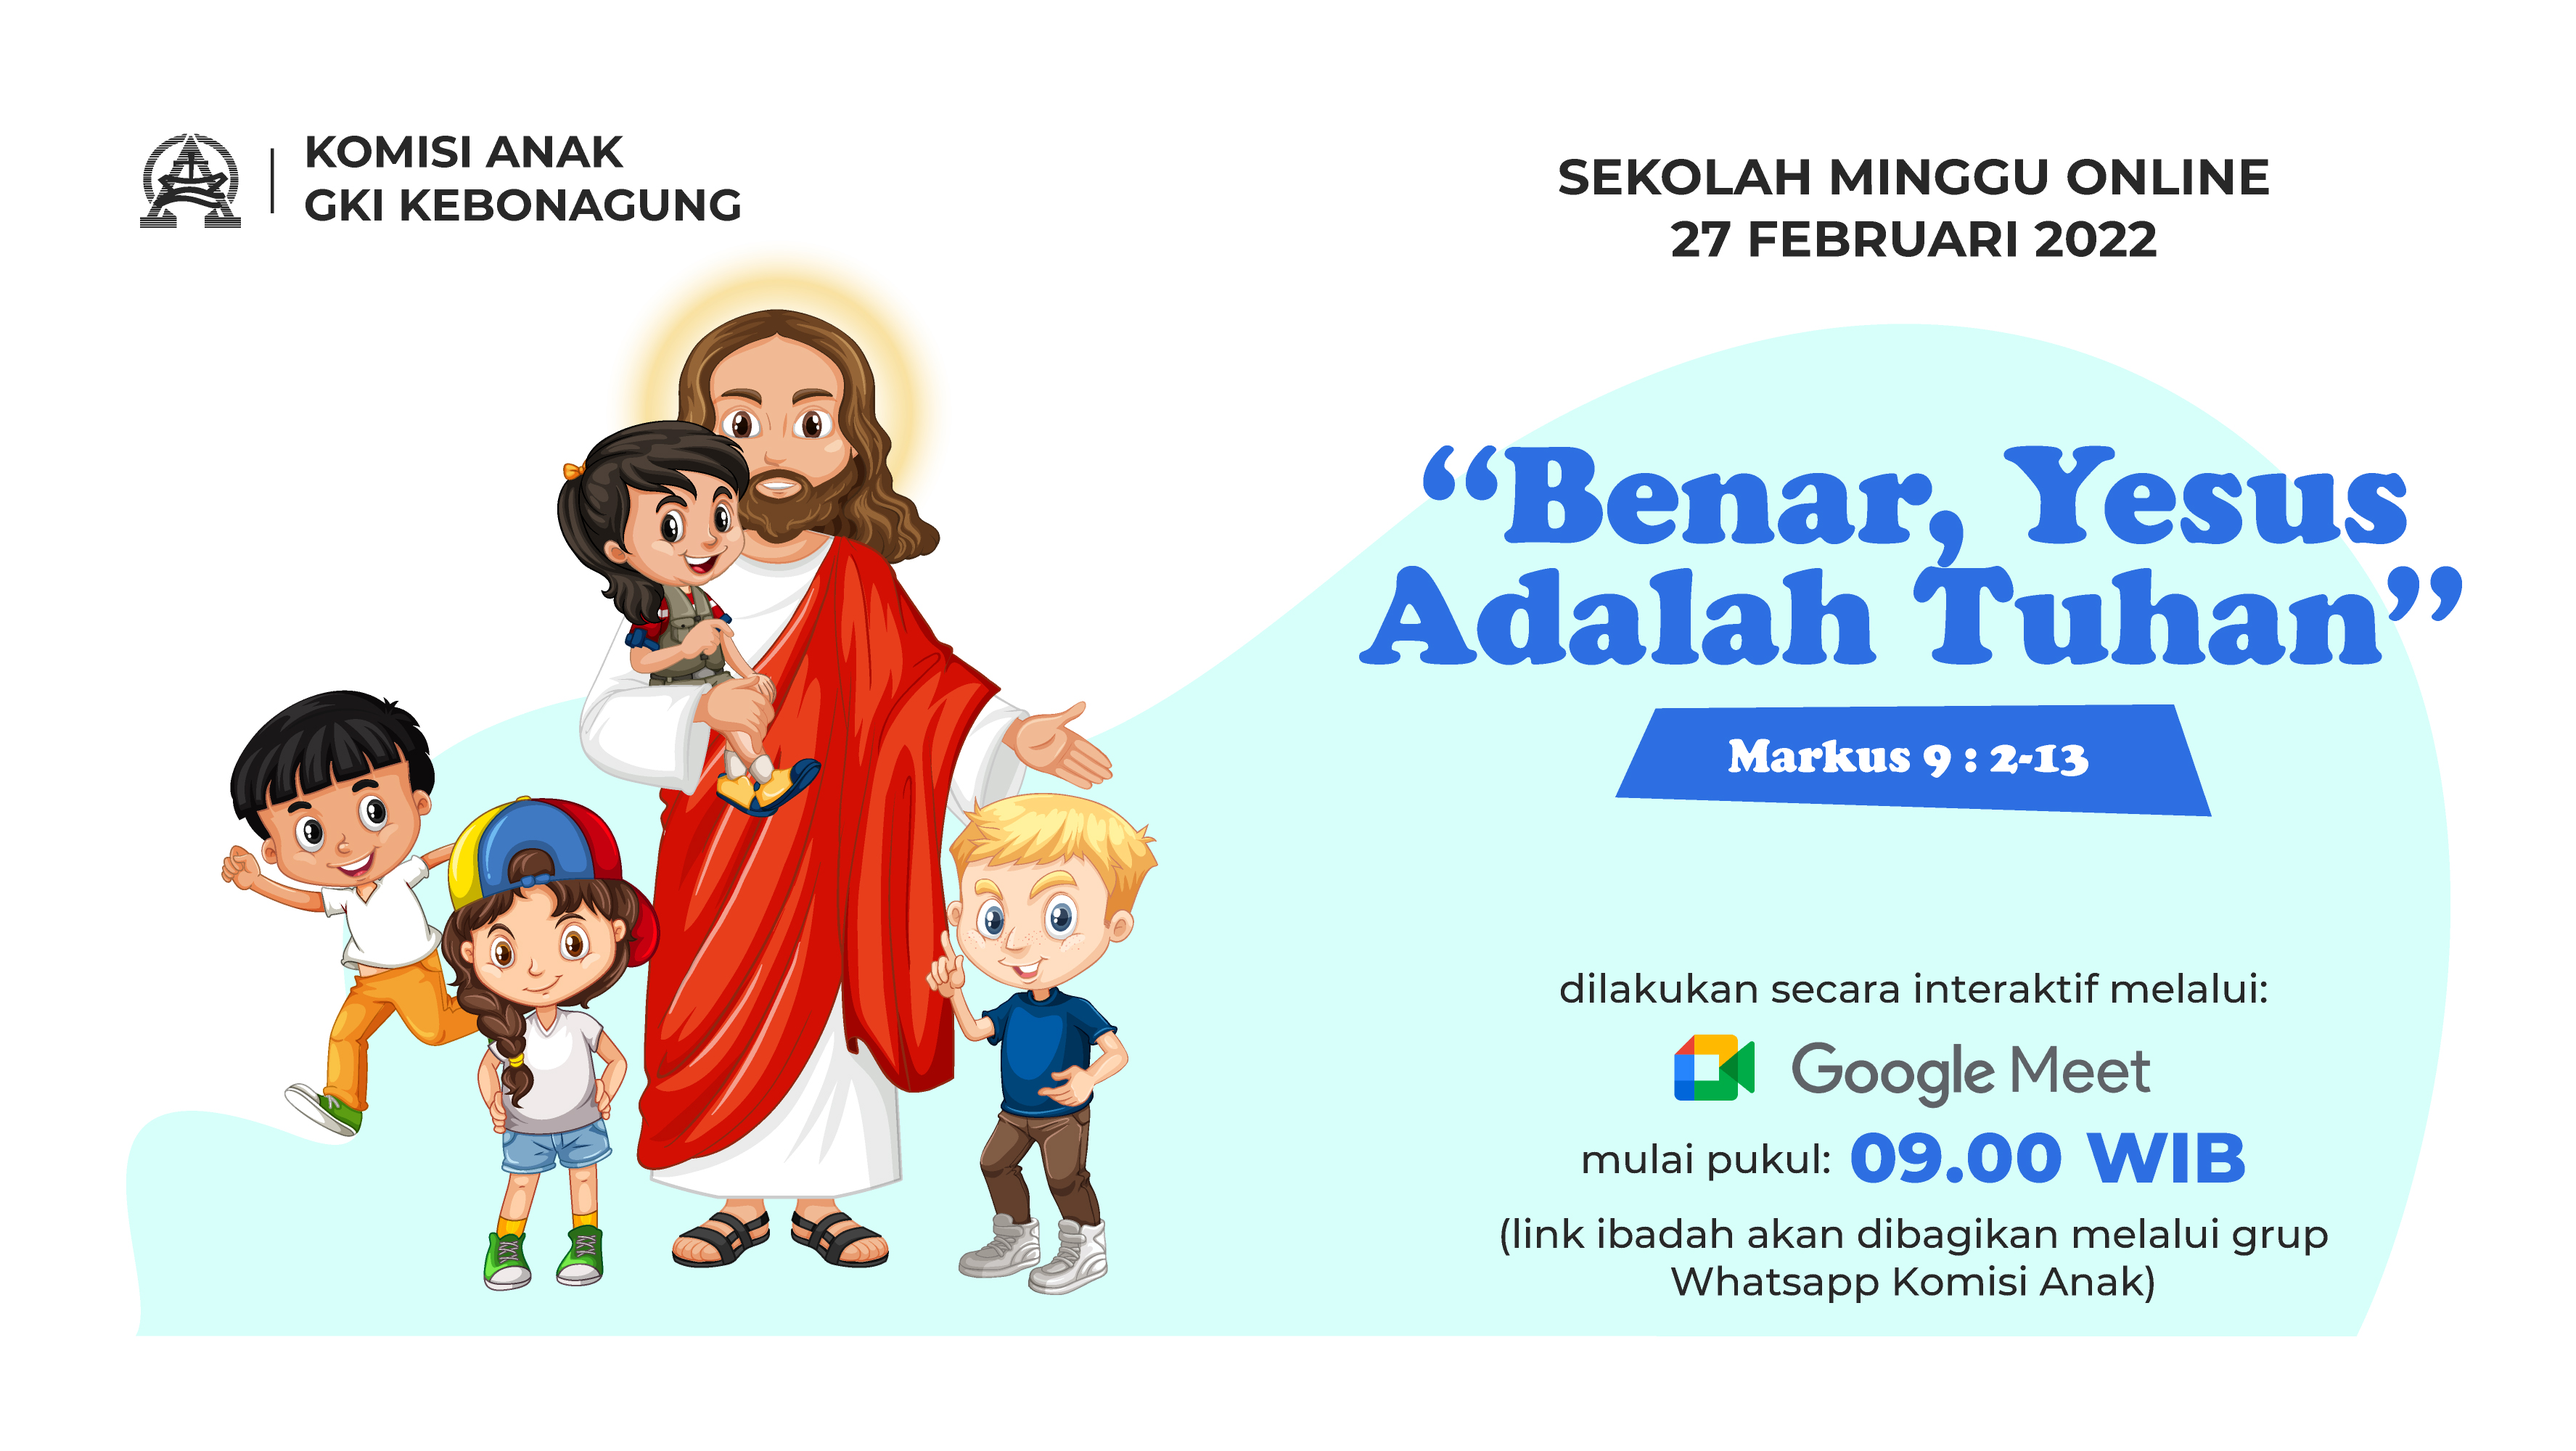
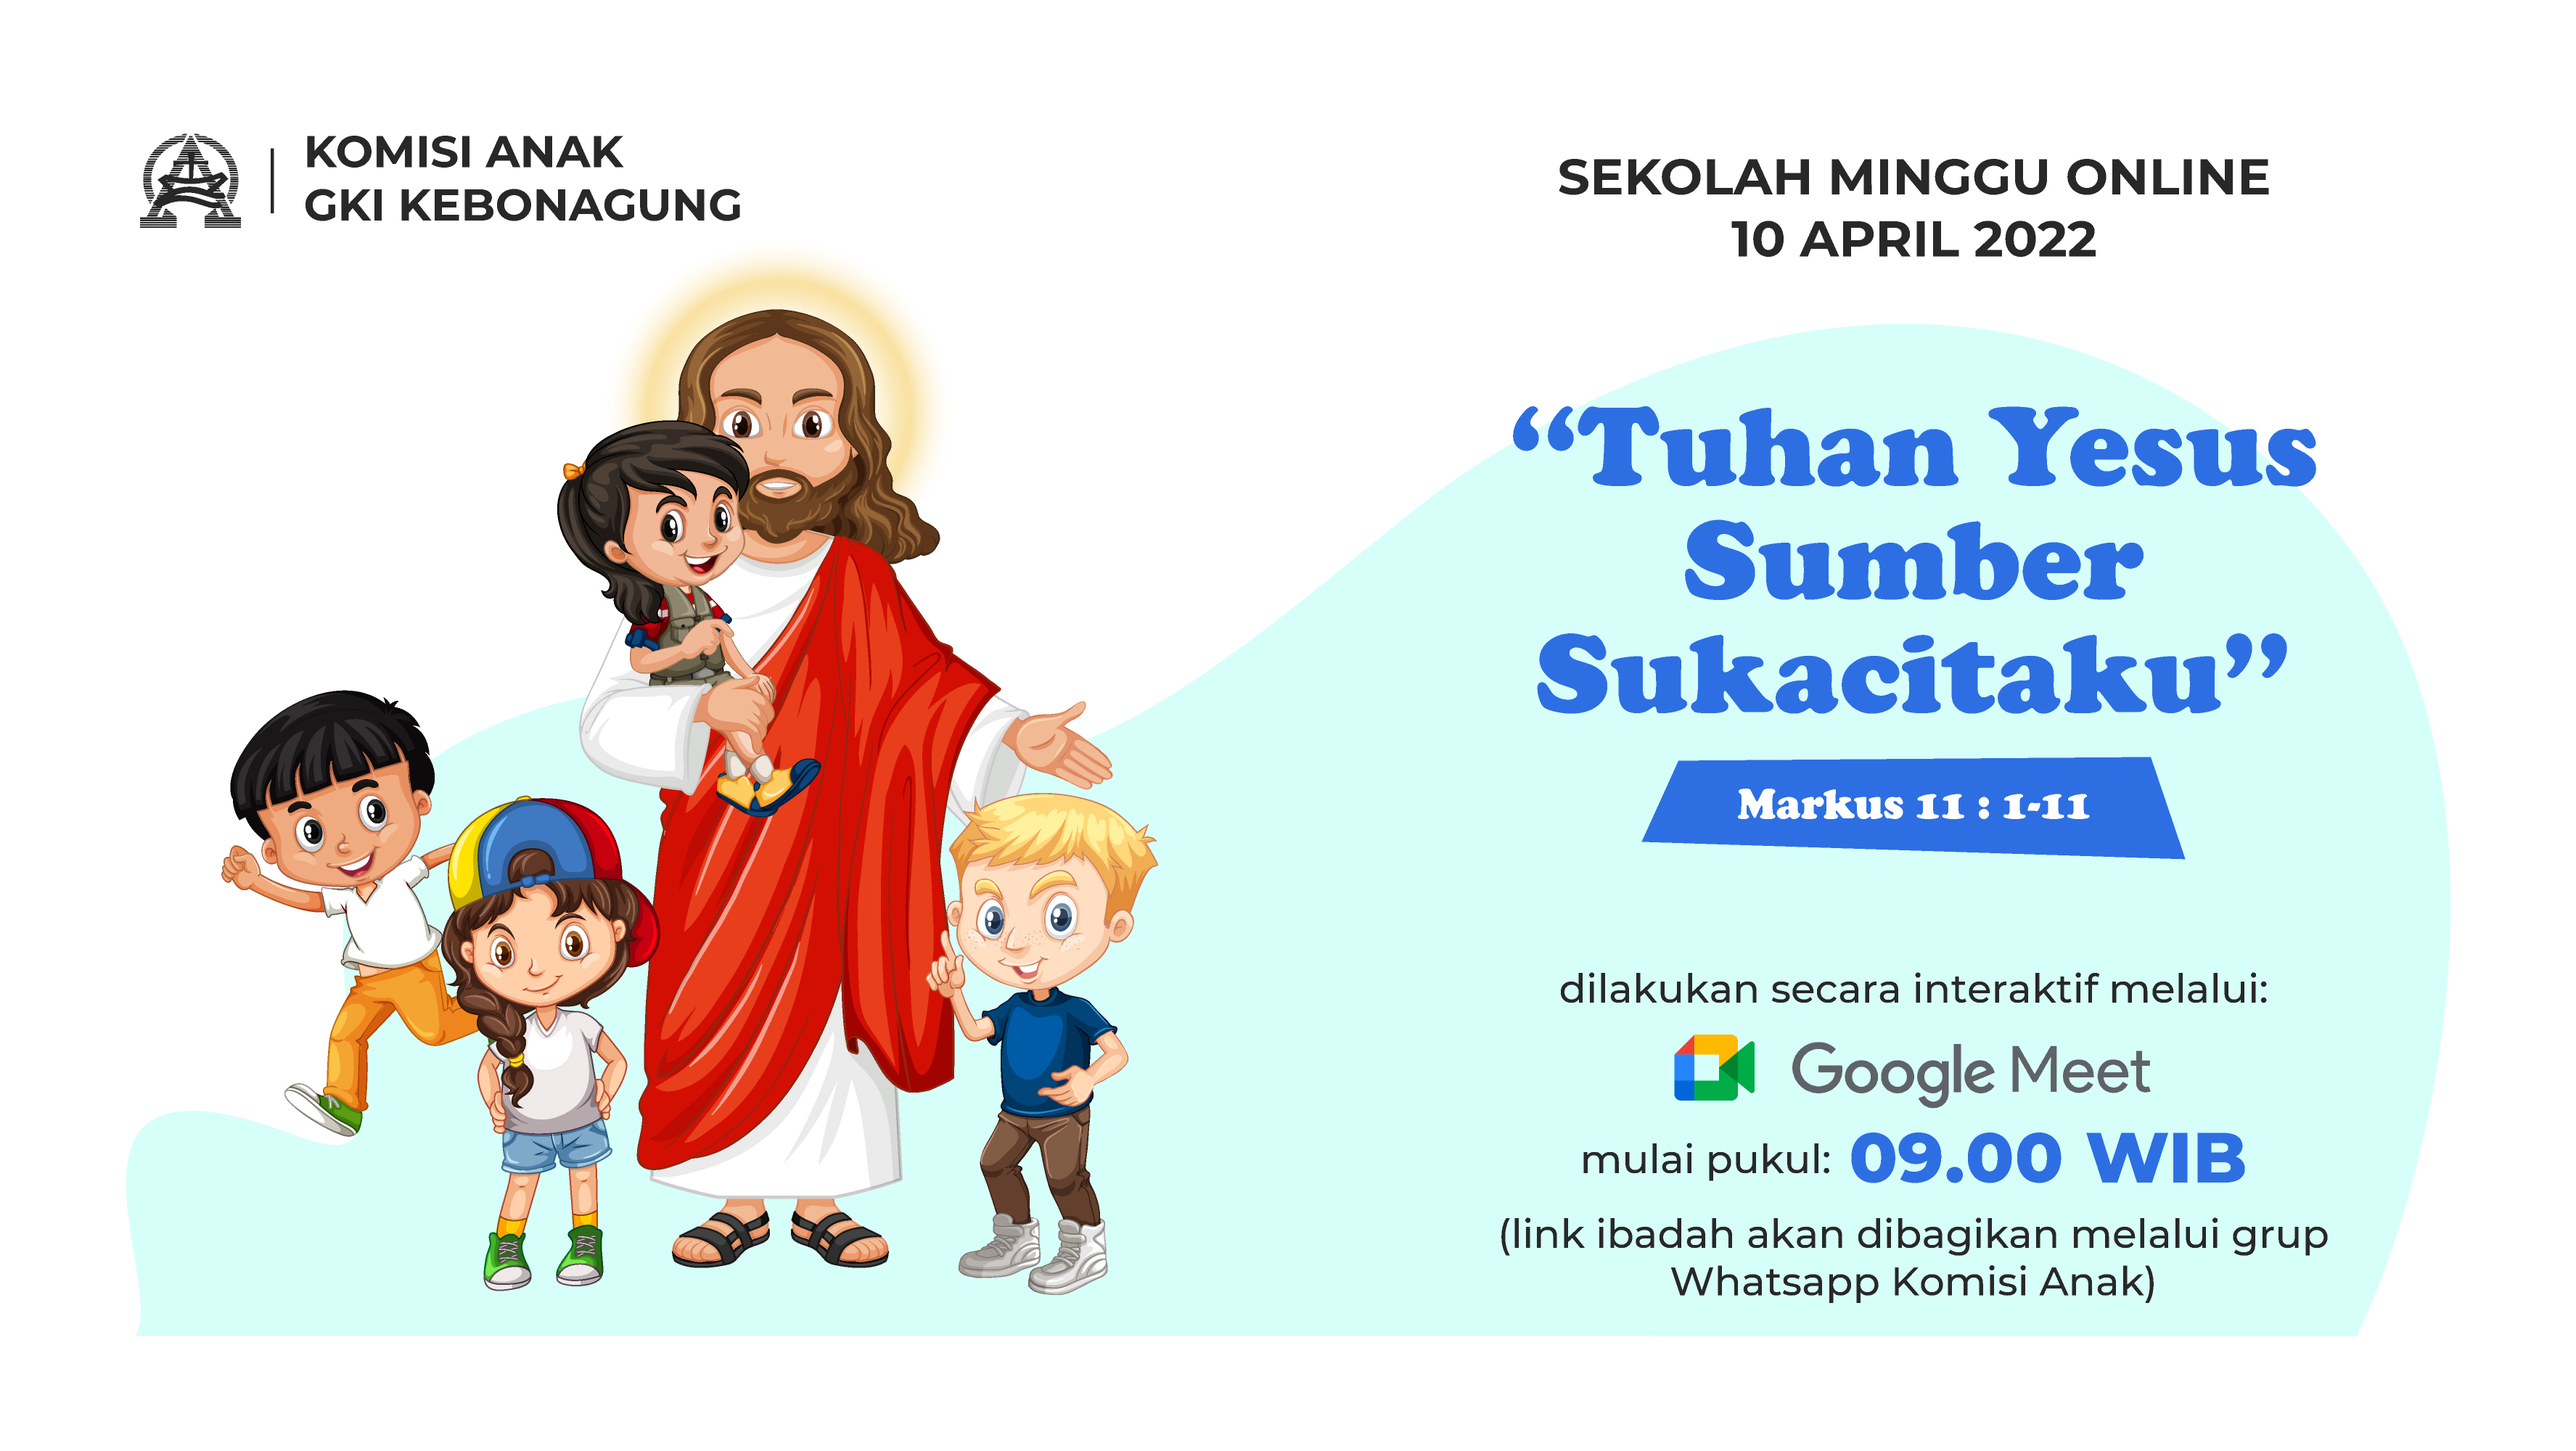
1

Changed region(s): [[0.5268, 0.279, 0.9606, 0.589], [0.6507, 0.155, 0.8366, 0.186]]

diff --git a/application/views/Front/vLandingpage.php b/application/views/Front/vLandingpage.php
@@ -131,7 +131,7 @@
                         </div>
                     </div>
                 </div>
-                <div class="col-lg-4 text-center d-none">
+                <div class="col-lg-4 text-center">
                     <div class="mt-5">
                         <div class="card text-center shadow mx-3">
                             <!-- UBAH -->
@@ -141,7 +141,7 @@
                             <div class="card-body">
                                 <h4 class="card-title">Sekolah Minggu</h4>
                                 <!-- UBAH -->
-                                <p class="card-text">"Benar, Yesus Adalah Tuhan"<br>Minggu, 27 Februari 2022 - 09.00 WIB<br>Kak Nella dan Kak Nenes</p>
+                                <p class="card-text">"Tuhan Yesus Sumber Sukacitaku"<br>Minggu, 10 April 2022 - 09.00 WIB<br>Ibu Sonya dan Ibu Yeussy</p>
                             </div>
                             <div class="card-body">
                                 <!-- UBAH -->
@@ -275,7 +275,7 @@
                         <div class="mb-2"><i class="bi bi-file-earmark-text fs-1 text-primary"></i></div>
                         <h3 class="h4 mb-2">Warta Jemaat</h3>
                         <!-- UBAH -->
-                        <a class="text-decoration-none" href="<?= base_url() ?>front/assets/docs/warta.docx" download="Warta Jemaat 27 Februari 2022">
+                        <a class="text-decoration-none" href="<?= base_url() ?>front/assets/docs/warta.docx" download="Warta Jemaat 10 April 2022">
                             <span class="h6 text-light"><i class="bi bi-download fs-4 mx-1"></i>
                                 Download
                             </span>
